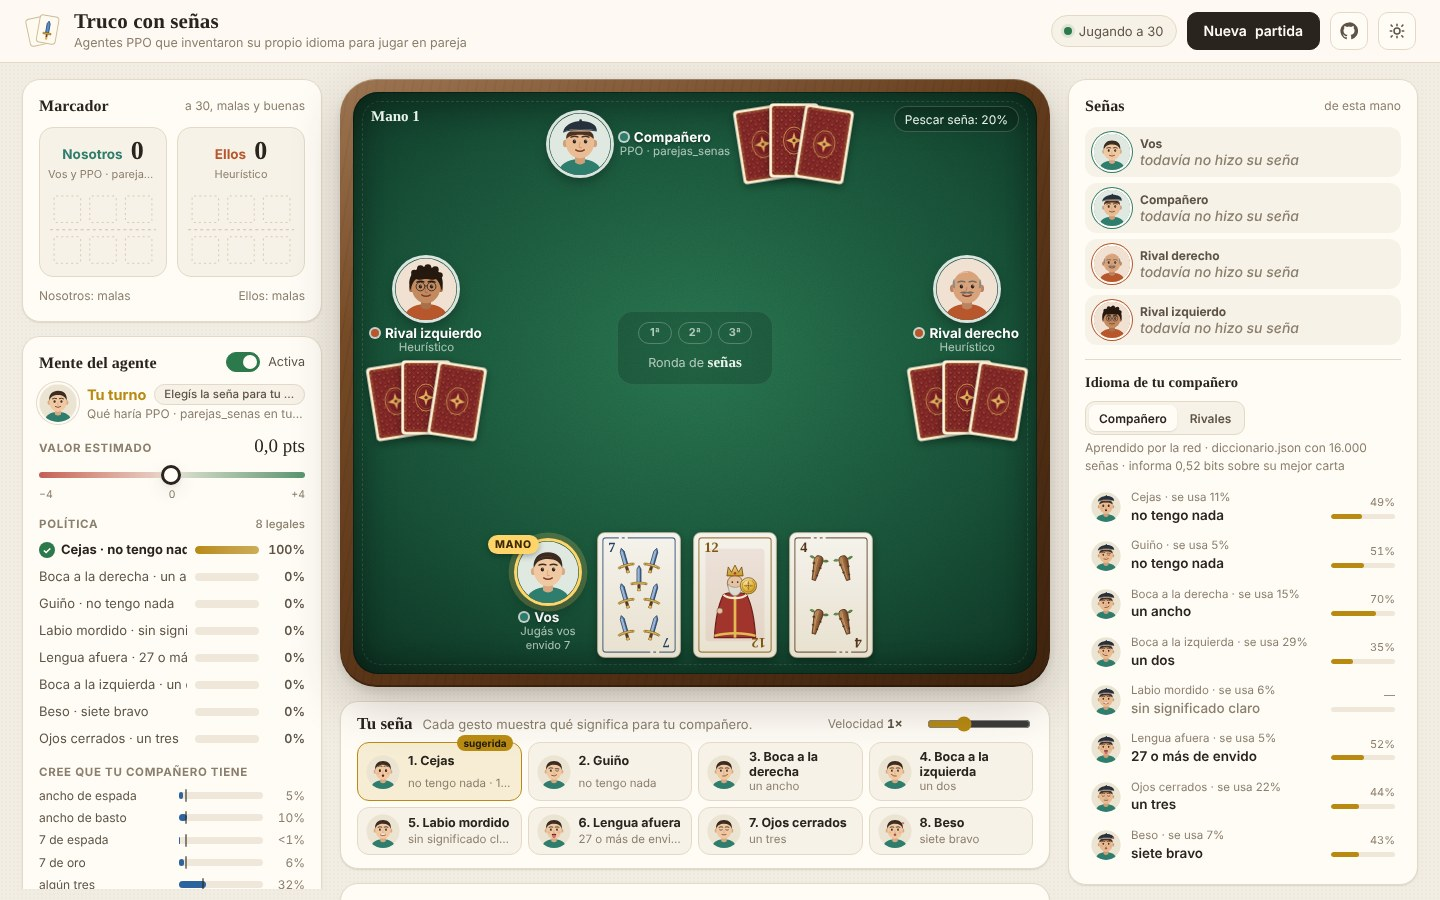
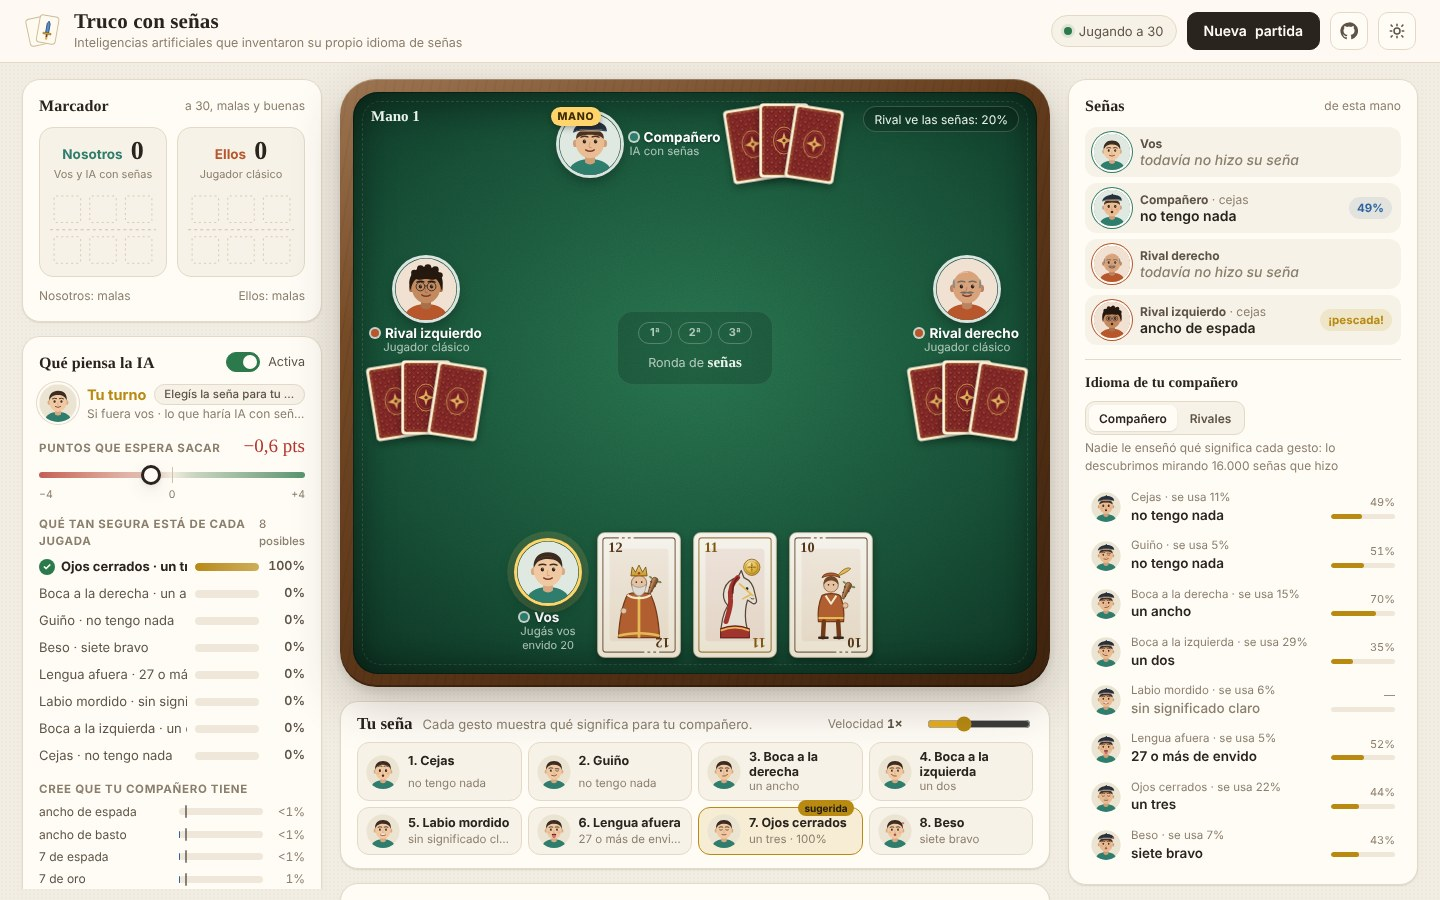
docs: glosario para no especialistas y captura nueva de la demo

diff --git a/README.md b/README.md
@@ -32,6 +32,26 @@ Acá, antes de cada mano, cada agente le hace a su compañero uno de **8 gestos 
 2. Si lo inventan, ¿qué significa cada seña?
 3. ¿Qué pasa con ese idioma cuando los rivales pueden espiar?
 
+<details>
+<summary><b>Glosario para no especialistas</b></summary>
+
+| Término | Qué quiere decir |
+|---|---|
+| **Agente** o **IA** | Un jugador manejado por una red neuronal. |
+| **Heurístico** o **jugador clásico** | Un jugador programado a mano, con reglas fijas y las señas de siempre del truco. Sirve de vara para medir a las IA. |
+| **PPO** | El método de aprendizaje por refuerzo con el que se entrenaron: la red juega, ve si ganó o perdió y ajusta sus decisiones de a poco. |
+| **Self-play** | Aprender jugando contra copias de sí misma, sin datos de partidas humanas. |
+| **Iteración** | Una ronda de entrenamiento: unas 5.000 manos jugadas y una actualización de la red. |
+| **Semilla** | El número que fija el azar de un entrenamiento. Dos semillas distintas son como dos parejas que aprendieron por separado. |
+| **Cross-play** | Juntar como compañeros a dos IA que se entrenaron por separado, para ver si se entienden. |
+| **Ablación** | Romper a propósito una pieza, como mezclar las señas, para medir cuánto aportaba. |
+| **Bits** | Cuánta información lleva una seña. 0 bits es no decir nada y cada bit extra es como contestar una pregunta de sí o no. |
+| **Elo** | El mismo puntaje que se usa en ajedrez: 200 puntos de diferencia es ganar aproximadamente 3 de cada 4 partidas. |
+| **Intervalo de confianza (IC 95%)** | El rango donde está el valor real con un 95% de seguridad, por haber jugado una cantidad finita de partidas. |
+| **MCCFR** | Un algoritmo de teoría de juegos que busca la estrategia más difícil de explotar. Es el usado en los bots de póker. |
+
+</details>
+
 ## Qué descubrieron
 
 ### 1. Reinventaron las señas del truco
@@ -97,7 +117,7 @@ Para el truco mano a mano hay un **MCCFR** tabular con CFR lineal y abstracción
 
 1. Entrá a **[francataldi.github.io/truco-senas](https://francataldi.github.io/truco-senas/)** y esperá unos segundos a que cargue Python.
 2. **Jugar:** te sentás con un compañero PPO contra dos rivales heurísticos. Antes de cada mano elegís una seña: la demo te dice qué va a entender tu compañero con cada gesto.
-3. **Mente del agente:** mirá las probabilidades de cada jugada, cuántos puntos espera ganar y qué cree que tenés en la mano.
+3. **Qué piensa la IA:** mirá qué tan segura está de cada jugada, cuántos puntos espera sacar y qué cree que tiene su compañero en la mano.
 4. **Mirar:** dos parejas de agentes juegan solas, la que tiene señas contra la que no. Podés espiar las señas y ajustar la velocidad.
 
 <details>
